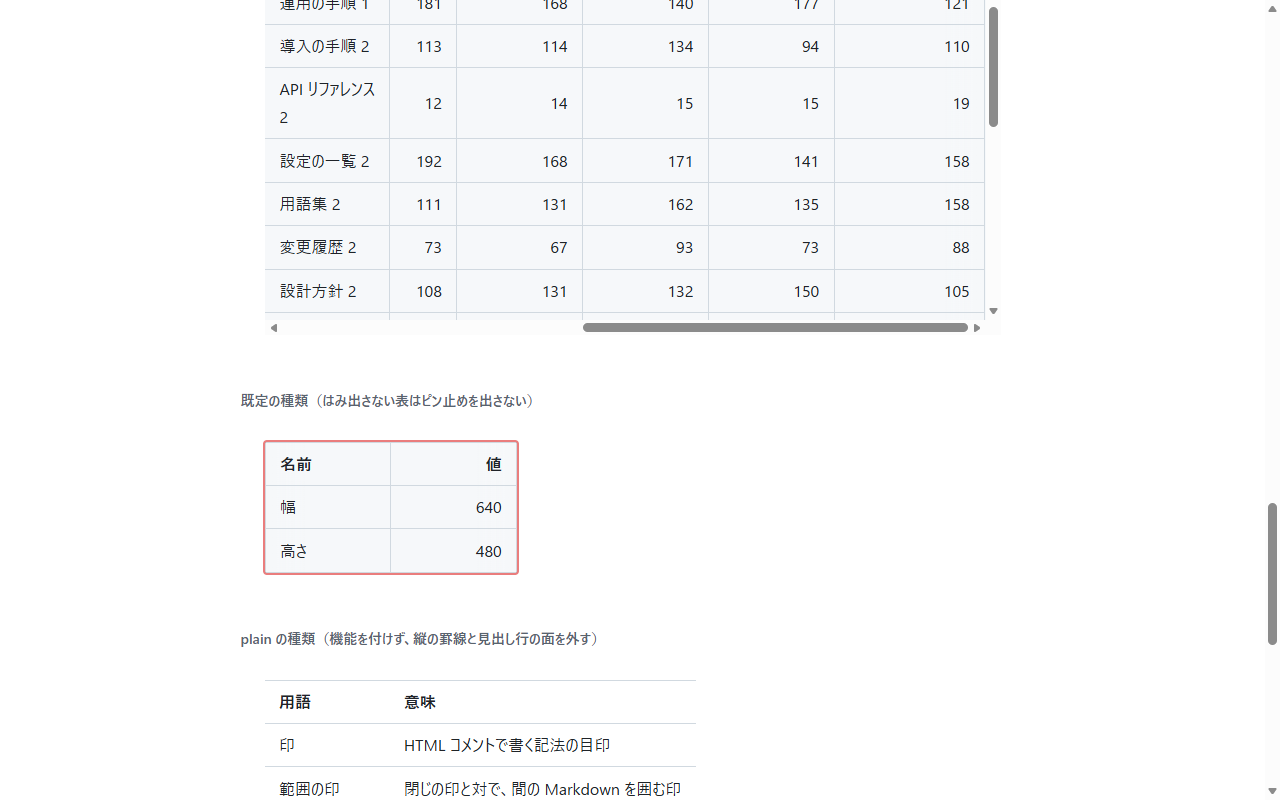
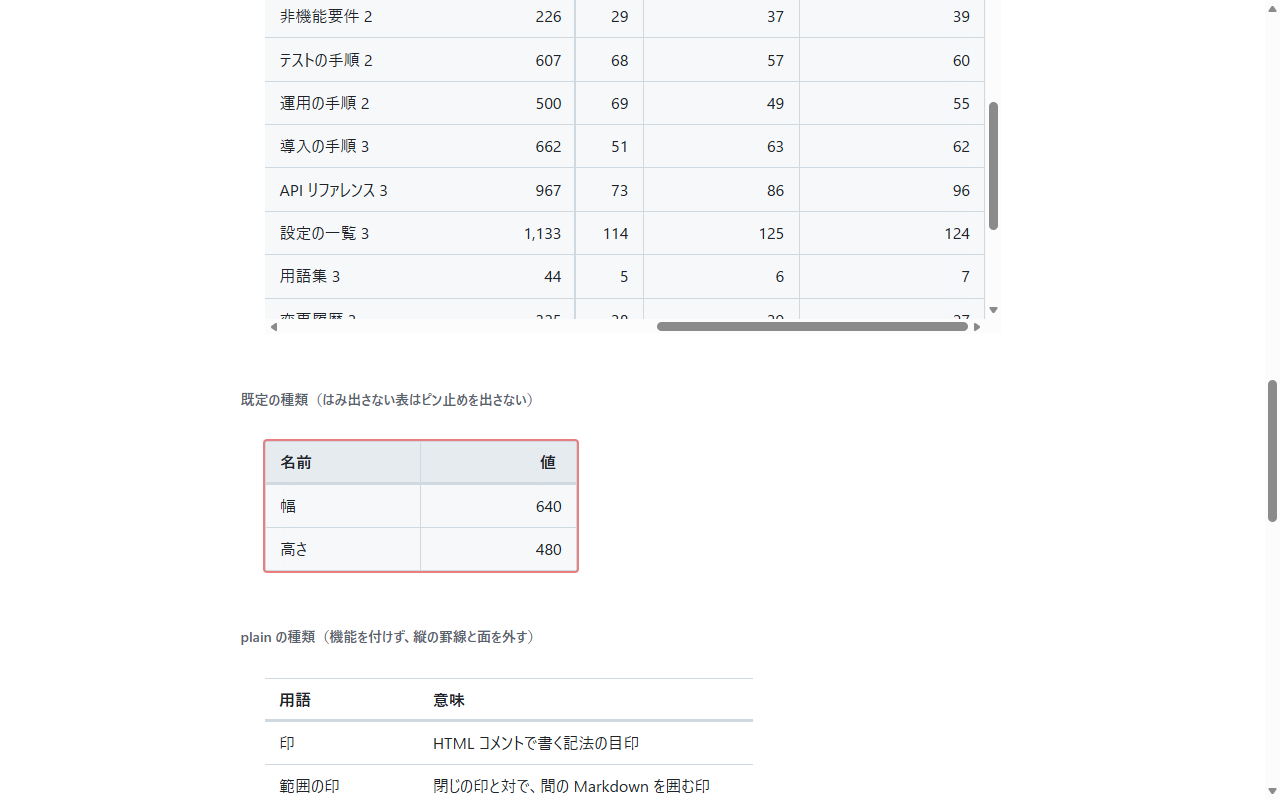
design: 印刷で表の列を留めず余白を詰め、表の直しの場面を撮り直す

diff --git a/dev/mock/refs/19/assets/syntax-print.css b/dev/mock/refs/19/assets/syntax-print.css
@@ -19,9 +19,28 @@
     .mdmark-table table {
       max-height: none;
 
+      /* セル: 留める指定と、描く処理が付けた列の最小の幅（style 属性）を外し、余白を詰めて列の多い表も紙の幅に収める */
       :is(th, td) {
         position: static;
+        min-width: 0 !important;
+        padding: 0.35em 0.5em;
+      }
+
+      /* ピン止めした列: 紙では横にスクロールしないので留めない */
+      :is(th, td).is-pinned-col {
+        position: static;
+      }
+
+      /* ピン止めした最後の列: 境目の線を外す */
+      td.is-pinned-edge {
         box-shadow: none;
+      }
+
+      /* 見出し行: ピン止めの境目の線を外し、上下の線だけを残す */
+      thead th.is-pinned-edge {
+        box-shadow:
+          inset 0 1px var(--mdmark-color-border),
+          inset 0 -2px var(--mdmark-color-border);
       }
     }
 
